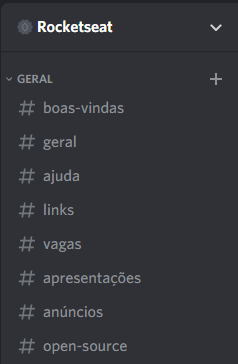
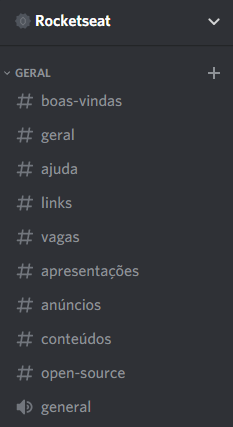
docs: updates on readme

diff --git a/readme.md b/readme.md
@@ -1,8 +1,8 @@
-# Sobre a Comunidade Rocketseat
+<img src="https://storage.googleapis.com/golden-wind/github/rocketseat-logo.svg" style="color: #121214" width="220px" />
 
-> Uma comunidade incrível de programadores em busca do próximo nível.
-
-[![Rocketseat](assets/rocketseat.png)](https://rocketseat.com.br)
+<p>
+  Uma comunidade incrível de programadores em busca do próximo nível.
+</p>
 
 ## Sumário
 
@@ -36,7 +36,7 @@ Por mais que seja o foco central, a comunidade não se limita apenas em tópicos
 ## Como participar
 
 Para acessar a plataforma da comunidade, basta entrar no nosso [servidor](http://comunidade.rocketseat.com.br).
-Lembrando que para isso, é necessário que você crie uma [conta no discord](https://discordapp.com/register).
+Lembrando que para isso, é necessário que você crie uma [conta no discord](https://discord.com/register).
 
 Acreditamos que todos, sem exceções, sempre têm algo a aprender e ensinar.
 
@@ -54,7 +54,7 @@ Para nos mantermos fortes, unidos e organizados, é preciso que algumas regras e
 
 :arrow_right: Não utilize `@everyone` ou `@here`. Apenas envie sua mensagem. Se for um comunicado de grande importância, peça para que um dos membros da [moderação](#quem-são) envie para você.
 
-:arrow_right: Não mencione roles _(grupos de usuários)_ ou membros de forma aleatória para obter uma resposta. Respeite o tempo de cada um e você terá sua resposta.
+:arrow*right: Não mencione roles *(grupos de usuários)\_ ou membros de forma aleatória para obter uma resposta. Respeite o tempo de cada um e você terá sua resposta.
 
 :arrow_right: Lembre-se que a cada mensagem os membros são notificados. Por conta disso, se esforce para enviar tudo o que deseja em uma única mensagem ao invés de dar `'enters'` a cada palavra.
 
@@ -123,13 +123,18 @@ Canal aberto para qualquer tópico relacionado a programação. Utilize para tir
 
 Não esqueça de dar uma olhada nas [regras de formatação](discord-markdown.md) do discord, uma mensagem bem formatada tem mais chances de ser respondida :wink:
 
-#### anúncios
+#### #anúncios
 
 Canal somente-leitura, aqui você verá anúncios importantes da Rocketseat, não vamos deixar você perder nada do que estamos aprontando.
 
-#### open-source
+#### #open-source
 
 Canal reservado para conversas sobre os projetos open source da Rocketseat e da comunidade! Fique a vontade para compartilhar seus projetos por aqui :wink:
+
+#### #conteúdos
+
+Canal somente-leitura, com anúncios sobre nossos novos conteúdos, para que você não
+perca nenhum vídeo no YouTube ou post novo no blog.
 
 ### Regiões
 
@@ -137,7 +142,7 @@ Existem diversas iniciativas na comunidade de encontros presenciais, eventos, me
 
 Com o objetivo de ajudar os membros a organizar essas iniciativas e de centralizar as informações, criamos um canal para cada estado brasileiro.
 
-Para que você tenha acesso ao canal do seu estado, é necessário que você preencha seus dados de endereço no station (nossa plataforma) e faça a integração do seu discord por lá.
+Para que você tenha acesso ao canal do seu estado, é necessário que você preencha seus dados de endereço [na nossa plataforma](https://app.rocketseat.com.br) e faça a integração do seu Discord por lá.
 
 ## Moderação
 
@@ -170,36 +175,34 @@ Se você se sentiu desrespeitado ou percebeu que algum membro está descumprindo
 
 ## Por que Discord?
 
-Optamos pelo [Discord](https://discordapp.com/features) como plataforma para a comunidade e estes são os principais motivos:
+Optamos pelo [Discord](https://discord.com/why-discord-is-different) como plataforma para a comunidade e estes são os principais motivos:
 
-- Totalmente gratuito
-- Histórico completo das conversas
-- Canais de voz com qualidade
-- Compartilhamento de tela
-- Permissões simples de configurar
-- Ótima organização por roles
-- Ótima organização por categorias
-- Fácil de integrar
-- Extremamente leve
-- Interface simples e intuitiva
-- Multi plataforma e possui versão web
-- Ferramenta em ascensão
-- Suporte ágil e de qualidade
-
-### Mas o Discord não é focado em jogos?
-
-Apesar de possuir essa proposta, ele não se limita apenas a jogos. Outras empresas e comunidades de devs também utilizam a plataforma, como por exemplo o [Reactiflux](https://reactjs.org/community/support.html#reactiflux-chat).
+- Totalmente gratuito;
+- Histórico completo das conversas;
+- Canais de voz com qualidade;
+- Compartilhamento de tela;
+- Permissões simples de configurar;
+- Ótima organização por roles;
+- Ótima organização por categorias;
+- Fácil de integrar;
+- Extremamente leve;
+- Interface simples e intuitiva;
+- Multi plataforma e possui versão web;
+- Ferramenta em ascensão;
+- Suporte ágil e de qualidade;
 
 ## Rocketseat
 
 Para conhecer um pouco mais sobre a Rocketseat, acompanhe-nos nas redes sociais:
 
 - [Site](https://rocketseat.com.br)
-- [Blog](https://rocketseat.com.br/blog)
+- [Blog](https://blog.rocketseat.com.br)
 - [Facebook](https://facebook.com/rocketseat)
 - [Youtube](https://www.youtube.com/rocketseat)
 - [Twitter](https://twitter.com/rocketseat)
 - [Instagram](https://www.instagram.com/rocketseat_oficial)
 - [Linkedin](https://www.linkedin.com/company/rocketseat)
 
-[Para participar da comunidade basta clicar aqui.](http://comunidade.rocketseat.com.br)
+---
+
+Made with 💜 by Rocketseat

diff --git a/discord-user.md b/discord-user.md
@@ -10,4 +10,4 @@ Para obter, é só clicar em `Configurações do usuário`, na catraca que fica 
 Assim, você poderá visualizar seu nome usuário completo
 ![Usuário no discord](assets/discord-user2.png)
 
-É exatamente esse usuário que você precisa passar para alguém te adicionar como amigo ou preencher seu perfil no Station para fazer parte dos grupos privados :blush:
+É exatamente esse usuário que você precisa passar para alguém te adicionar como amigo ou preencher seu perfil na plataforma para fazer parte dos grupos privados :blush:
